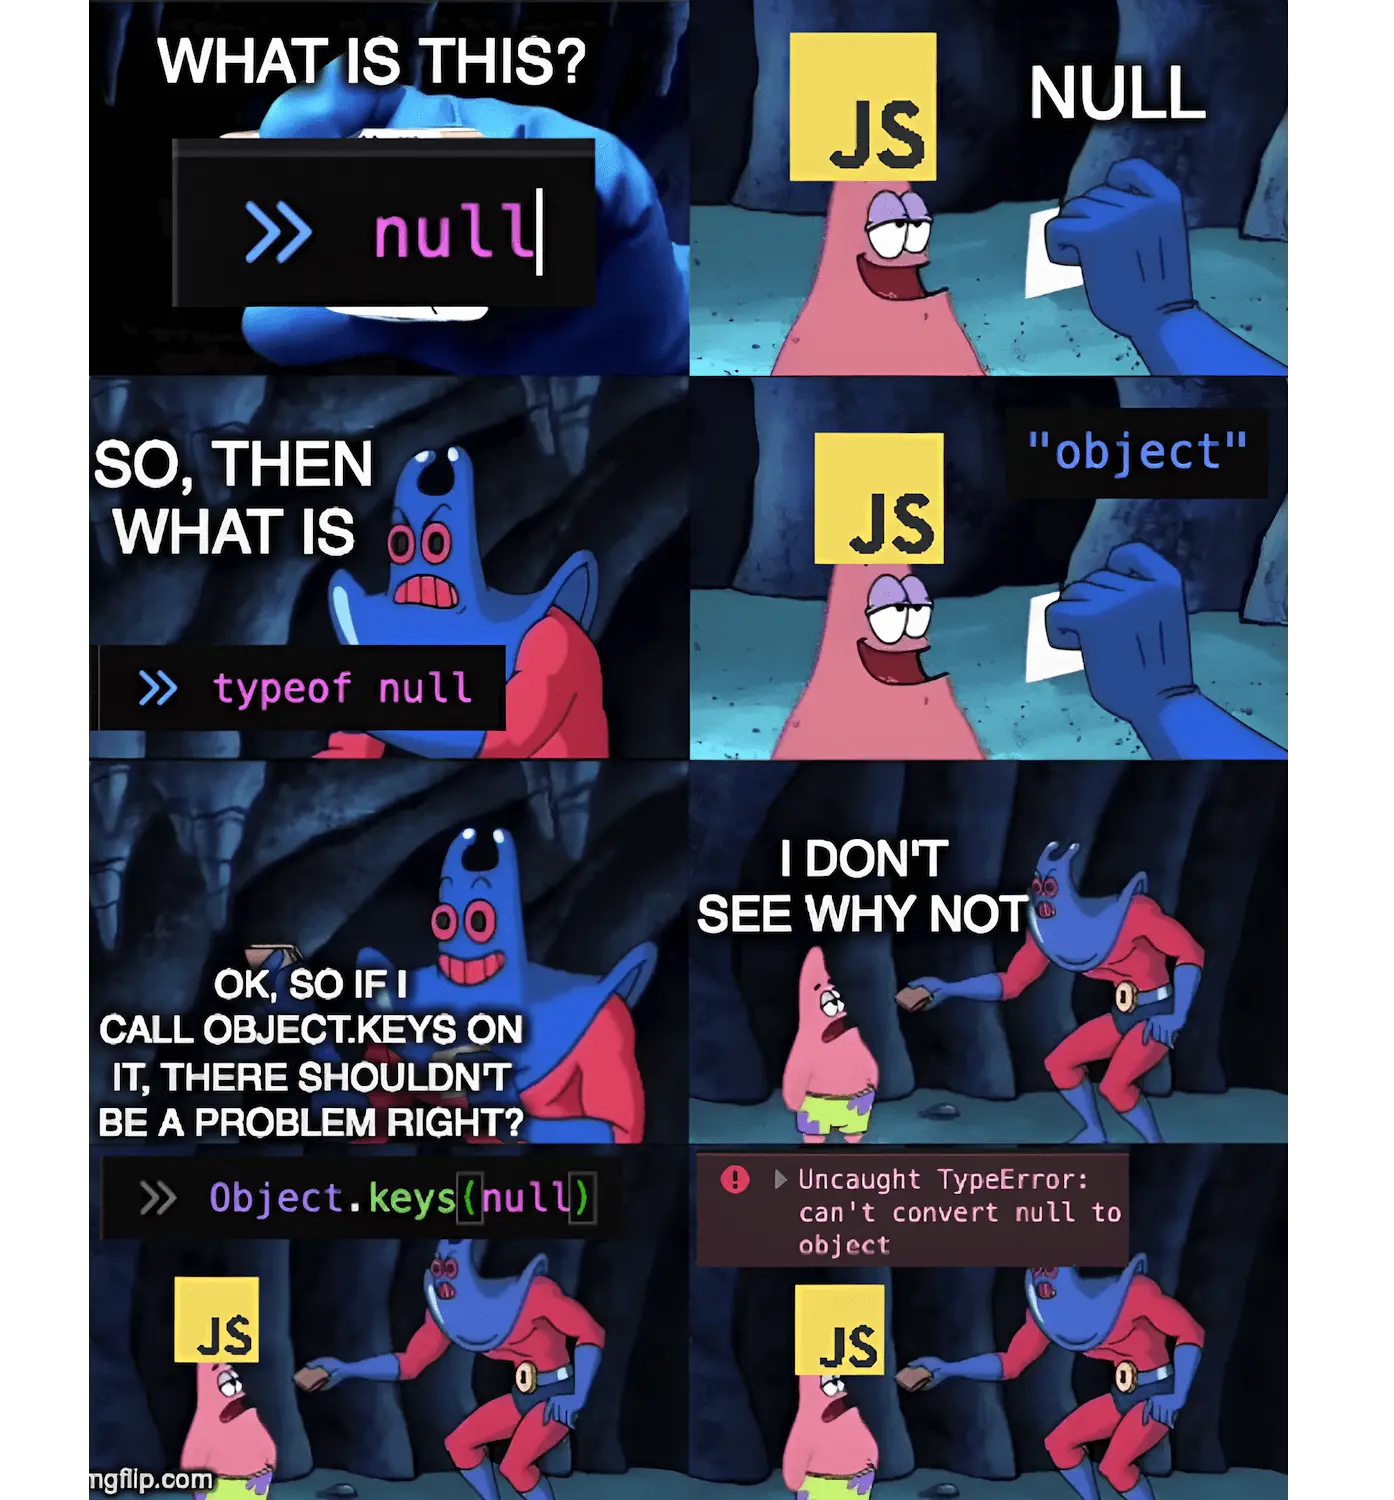
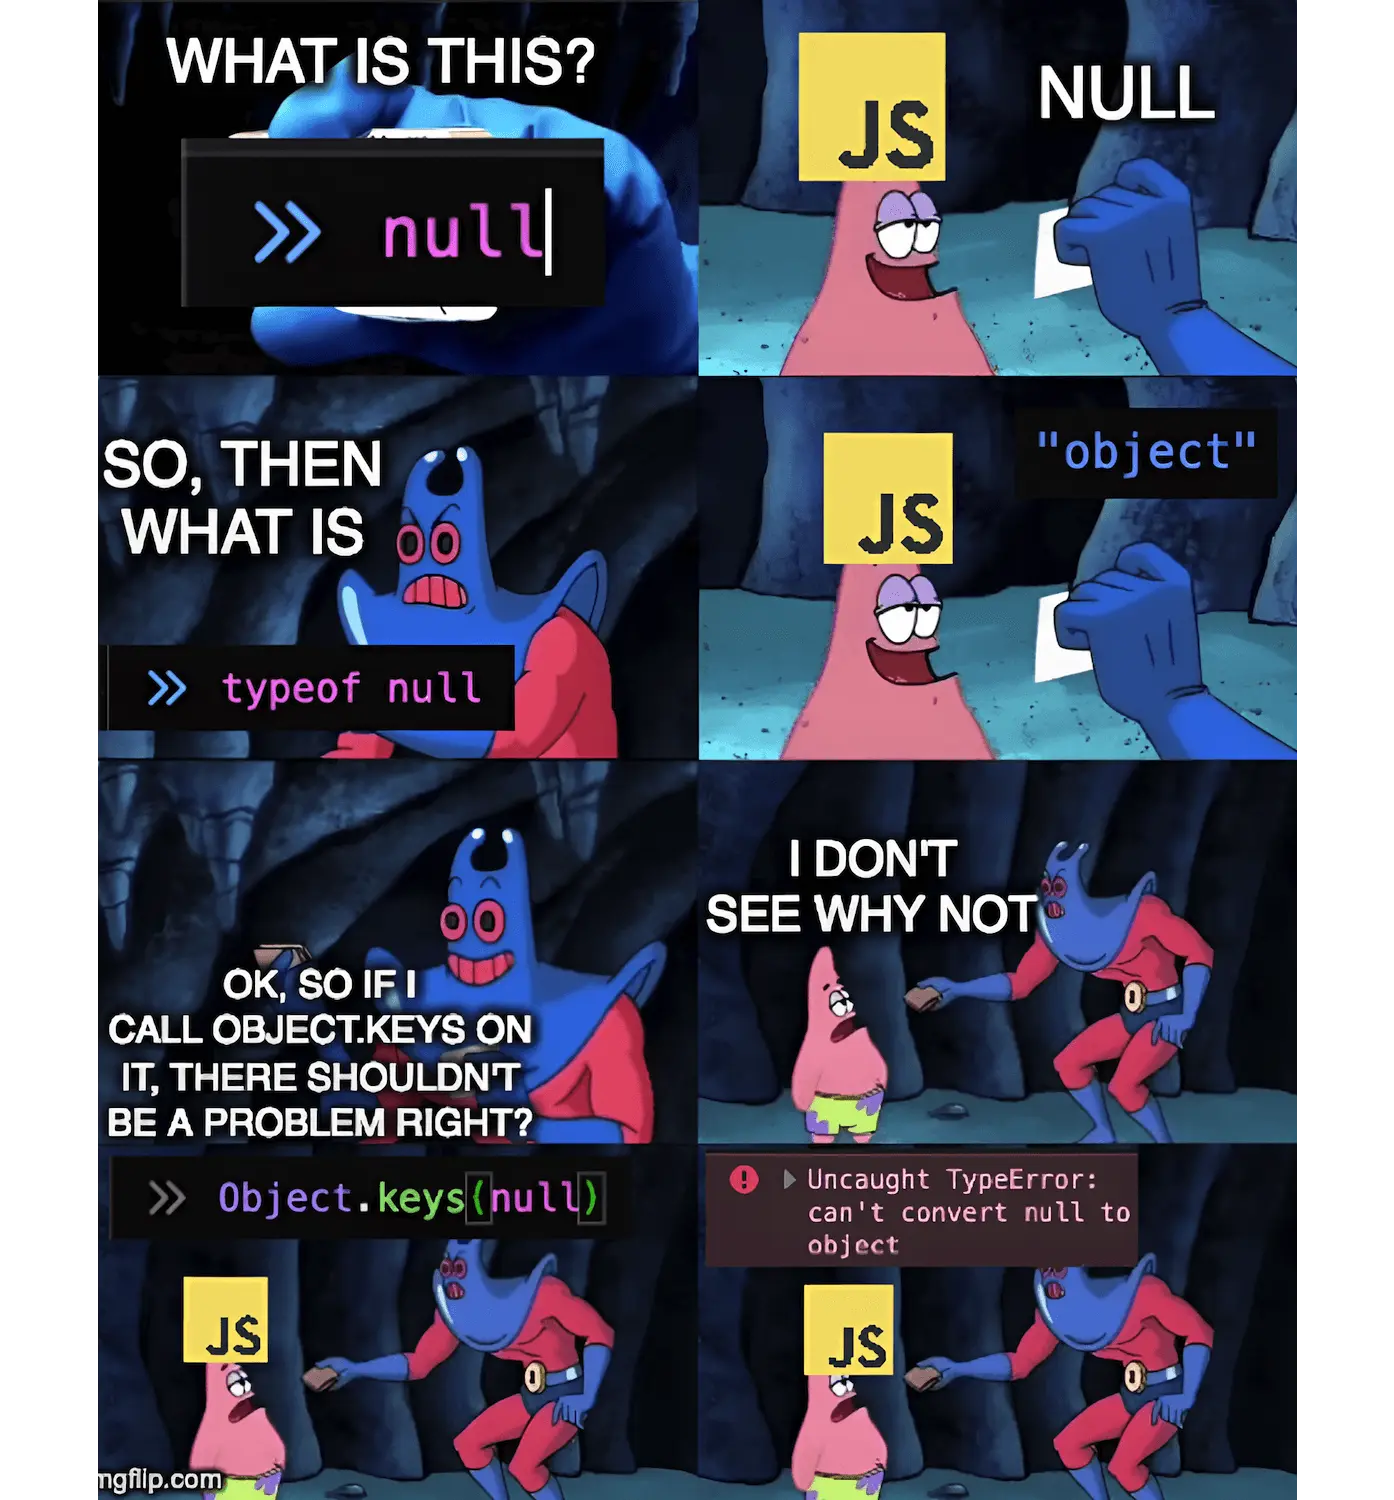
fix: change some properties for better responsive (Wed, Sep 11, 2024 01:12:44 PM)

diff --git a/cssMemeSlider/style.css b/cssMemeSlider/style.css
@@ -30,7 +30,7 @@ body {
 .container {
     max-width: 120rem;
     margin: 0 auto;
-    padding: 2rem;
+    /*padding: 2rem;*/
 }
 
 /* main */
@@ -42,8 +42,9 @@ body {
 }
 
 .slider-block {
-    max-width: 120rem;
+    max-width: clamp(90vw, 100%, 120rem);
     gap: 4rem;
+    padding: 2rem;
 }
 
 
@@ -163,8 +164,11 @@ body {
 
 
 @media only screen and (width < 37.5em /*600px*/) {
+    html {
+        font-size: 56.25%; /* 9px */
+    }
+
     .slider-block {
-    max-width: 120rem;
     gap: 2rem;
 }
 

diff --git a/cssMemeSlider/index.html b/cssMemeSlider/index.html
@@ -27,6 +27,9 @@
                 <div class="img-wrapper mem flex flex-center">
                     <img src="assets/img/mem4.webp" class="slider-item" alt="meme">
                 </div>
+                   <div class="img-wrapper mem flex flex-center">
+                    <img src="assets/img/mem4.webp" class="slider-item" alt="meme">
+                </div>
             </div>
 <!--        </div>-->
         <div class="description-block flex">
